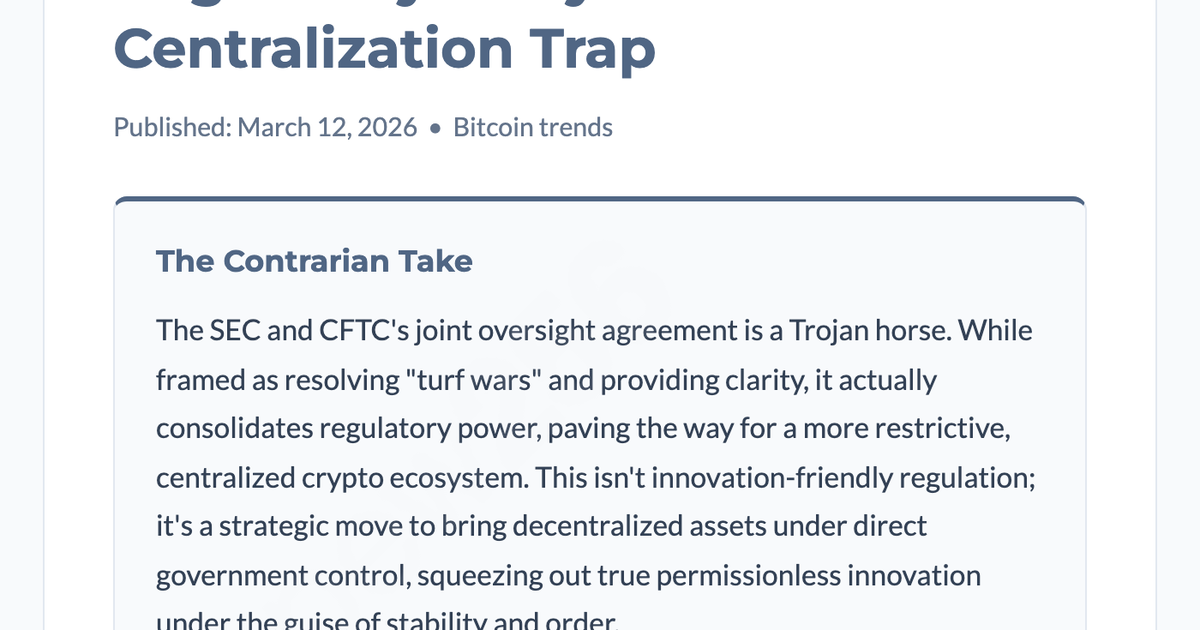
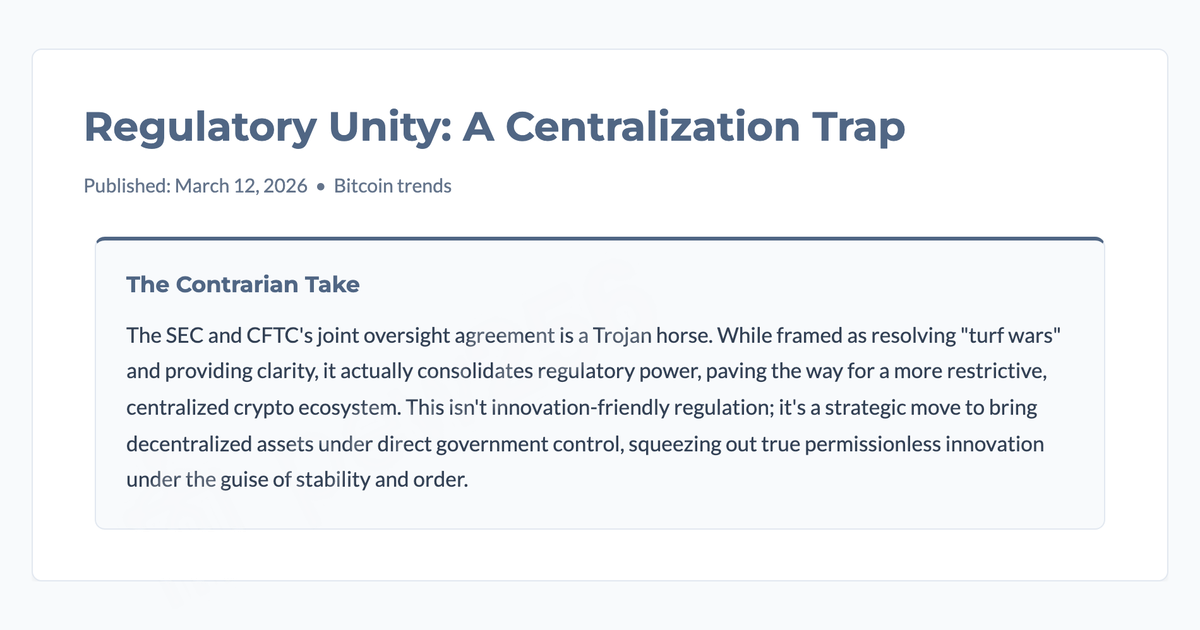
Refactor diffusion generation to use letterboxing instead of center crop, preventing card cutoff and preserving watermarks, and increase watermark opacity from 4% to 8%

diff --git a/scripts/generate_diffusion_assets.py b/scripts/generate_diffusion_assets.py
@@ -7,12 +7,27 @@ from datetime import datetime
 from playwright.sync_api import sync_playwright
 from PIL import Image, ImageOps
 
-def crop_center(pil_img, crop_width, crop_height):
-    img_width, img_height = pil_img.size
-    return pil_img.crop(((img_width - crop_width) // 2,
-                         (img_height - crop_height) // 2,
-                         (img_width + crop_width) // 2,
-                         (img_height + crop_height) // 2))
+def fit_contain(pil_img, target_width, target_height, bg_color=(248, 250, 252, 255)):
+    # Calculate scale to fit inside target entirely
+    img_ratio = pil_img.width / pil_img.height
+    target_ratio = target_width / target_height
+    
+    if img_ratio > target_ratio:
+        # Fits to width
+        new_w = target_width
+        new_h = int(target_width / img_ratio)
+    else:
+        # Fits to height
+        new_h = target_height
+        new_w = int(target_height * img_ratio)
+        
+    scaled_img = pil_img.resize((new_w, new_h), Image.Resampling.LANCZOS)
+    
+    new_img = Image.new("RGBA", (target_width, target_height), bg_color)
+    paste_x = (target_width - new_w) // 2
+    paste_y = (target_height - new_h) // 2
+    new_img.paste(scaled_img, (paste_x, paste_y), scaled_img)
+    return new_img
 
 def parse_markdown_draft(filepath):
     try:
@@ -223,7 +238,7 @@ def apply_diagonal_watermark(base_img):
             
             # Reduce opacity
             alpha = wm.split()[3]
-            alpha = alpha.point(lambda p: p * 0.04)
+            alpha = alpha.point(lambda p: p * 0.08)
             wm.putalpha(alpha)
             
             # Calculate rotation angle based on image dimensions
@@ -286,29 +301,21 @@ def process_image(timestamp, mode, raw_natural_path, raw_square_path):
             square_img.save(out_square_raw, "PNG")
 
             # --- DIFFUSION CROP ASSETS --- #
-            # Twitter 16:9 (1200x675)
-            twit_img = crop_center(square_img, sq_size, int(sq_size * (675/1200)))
-            twit_img = twit_img.resize((1200, 675), Image.Resampling.LANCZOS)
+            # We want to scale the natural padded image for landscape social shares, and the square image for square/vertical.
+            # Twitter 16:9 (1200x675) -> letterbox the natural landscape
+            twit_img = fit_contain(padded_img, 1200, 675)
             twit_img.save(out_twitter, "PNG")
             
-            # LinkedIn / OG 1.91:1 (1200x630)
-            og_img = crop_center(square_img, sq_size, int(sq_size * (630/1200)))
-            og_img = og_img.resize((1200, 630), Image.Resampling.LANCZOS)
+            # LinkedIn / OG 1.91:1 (1200x630) -> letterbox the natural landscape
+            og_img = fit_contain(padded_img, 1200, 630)
             og_img.save(out_landscape, "PNG")
             
-            # Instagram Square (1080x1080)
-            ig_sq = square_img.resize((1080, 1080), Image.Resampling.LANCZOS)
+            # Instagram Square (1080x1080) -> letterbox the square image
+            ig_sq = fit_contain(square_img, 1080, 1080)
             ig_sq.save(out_square, "PNG")
             
-            # Instagram Vertical 9:16 (1080x1920)
-            target_h = int(sq_size * (1920/1080))
-            if target_h > square_img.height:
-                vert_img = Image.new("RGBA", (sq_size, target_h), (248, 250, 252, 255))
-                v_y = (target_h - square_img.height) // 2
-                vert_img.paste(square_img, (0, v_y), square_img)
-            else:
-                vert_img = crop_center(square_img, int(sq_size * (1080/1920)), sq_size)
-            vert_img = vert_img.resize((1080, 1920), Image.Resampling.LANCZOS)
+            # Instagram Vertical 9:16 (1080x1920) -> letterbox the square image
+            vert_img = fit_contain(square_img, 1080, 1920)
             vert_img.save(out_vertical, "PNG")
             
         return True
